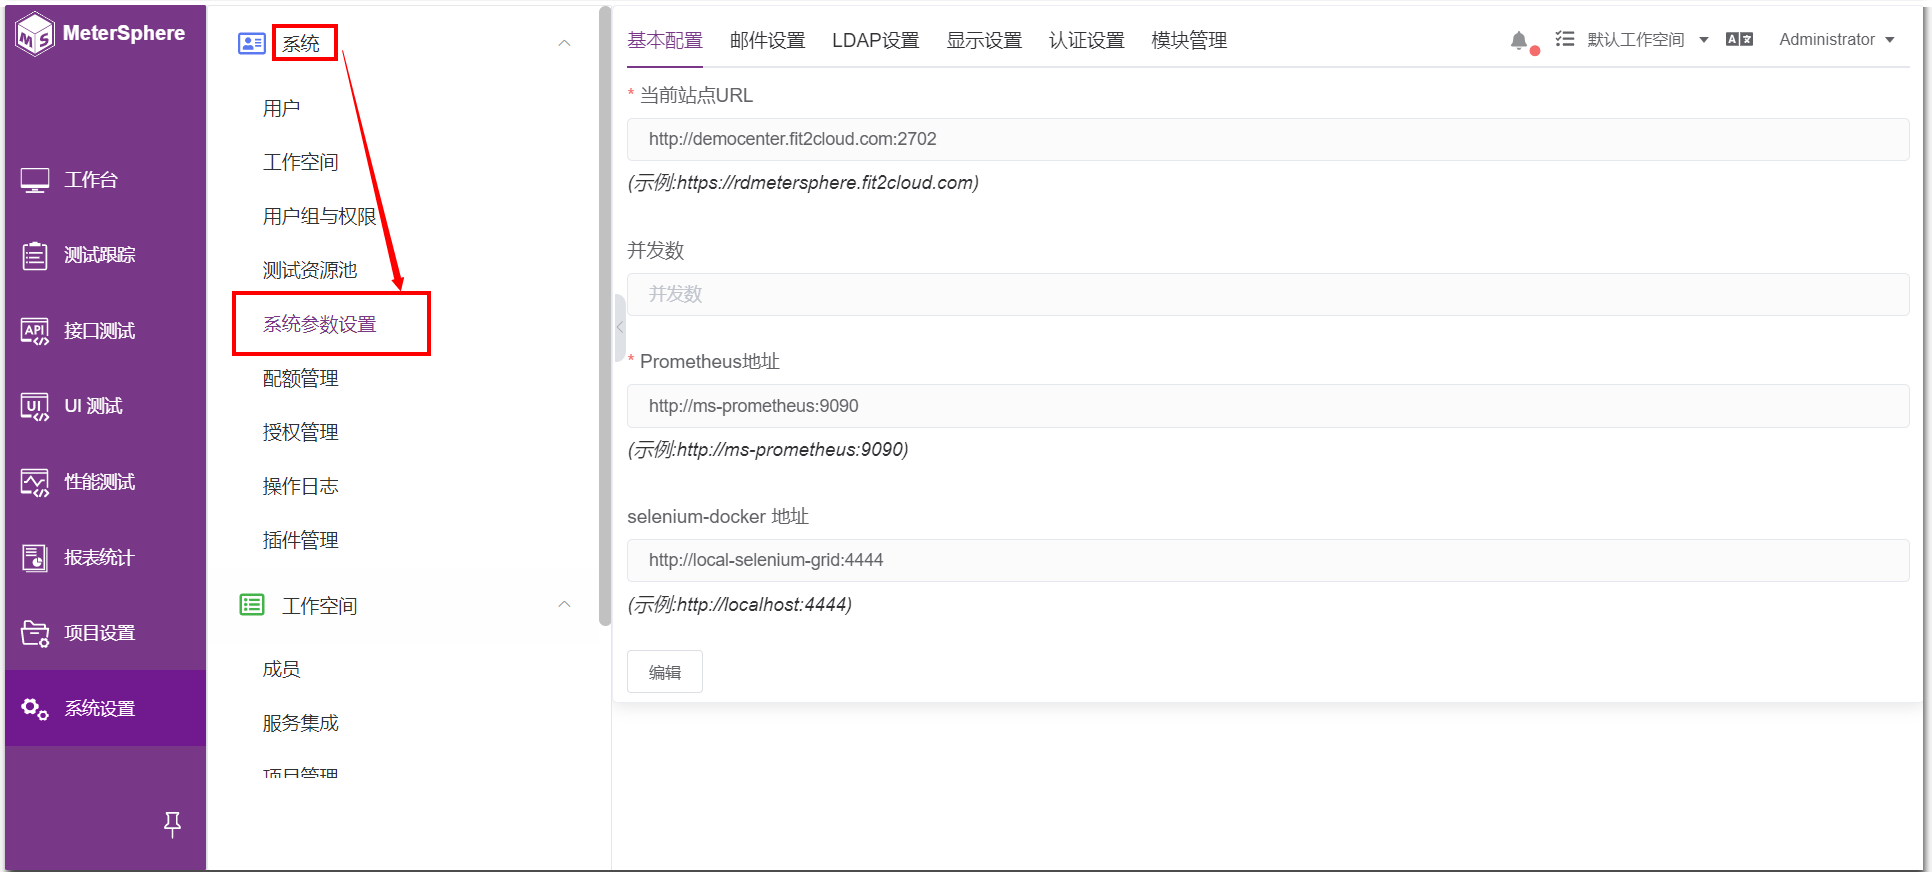
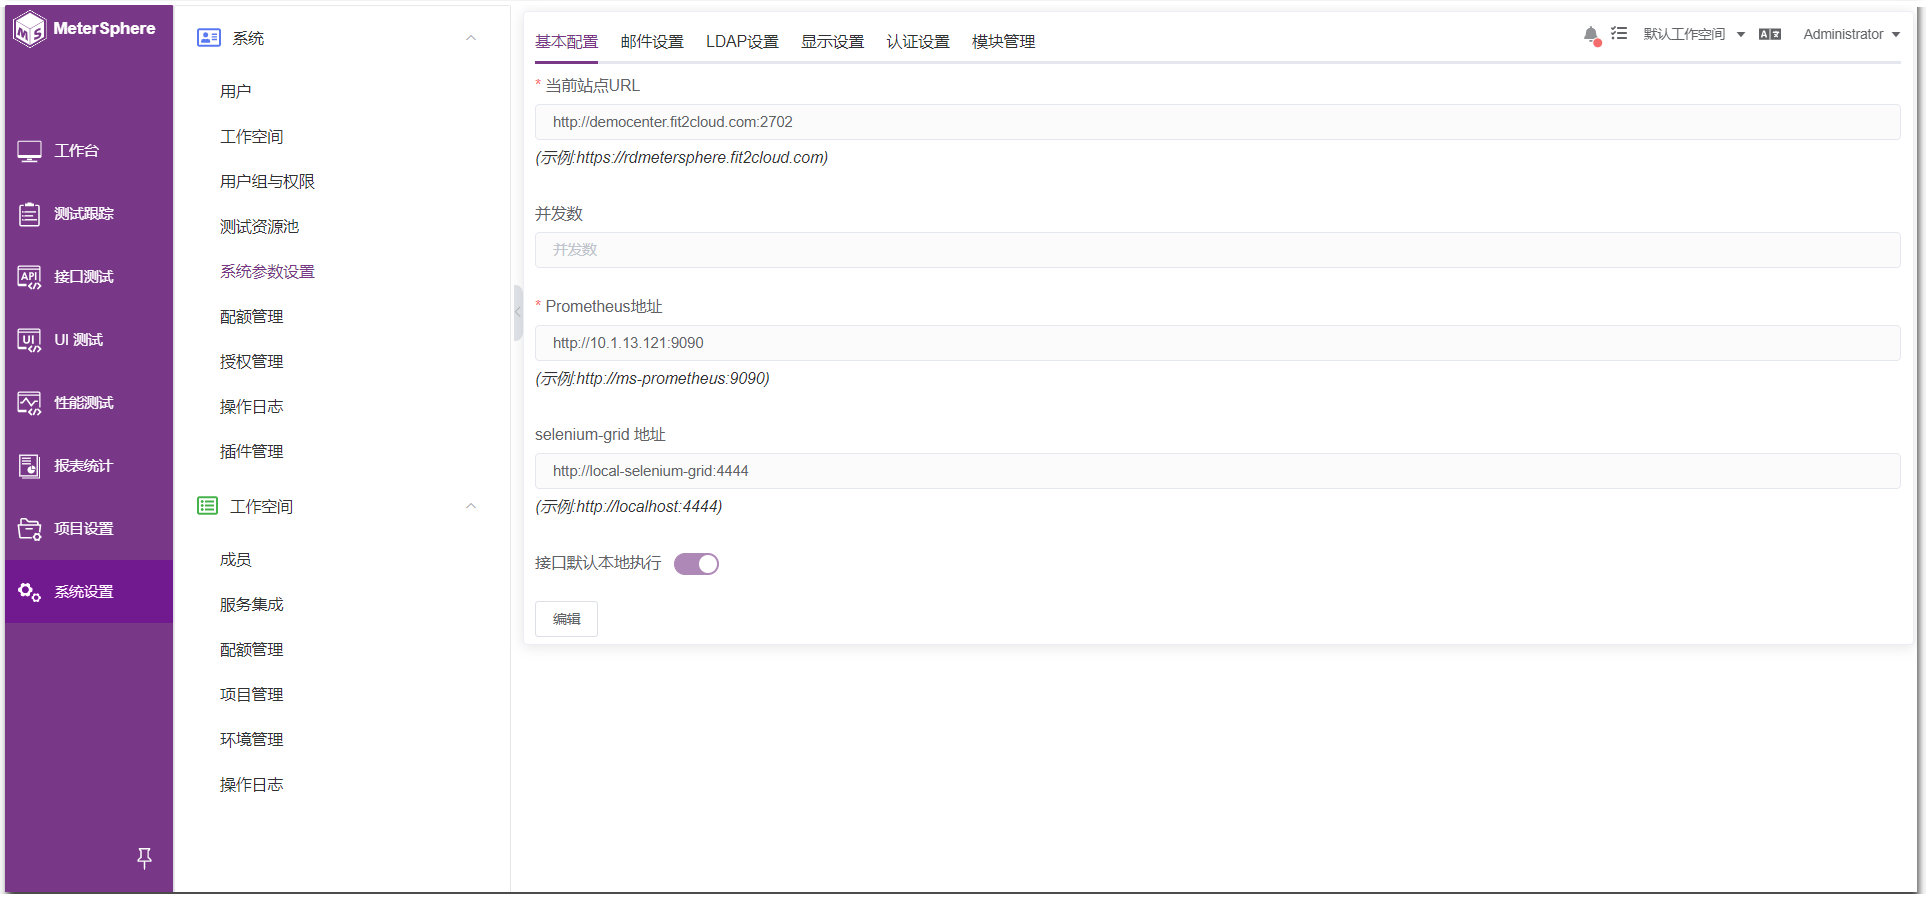
docs: 更新 v2.4 功能

Changed region(s): [[0.0, 0.0, 0.9969, 1.0], [0.2492, 0.0, 0.9969, 0.7065], [0.3427, 0.7372, 0.3738, 0.7679]]

diff --git a/docs/user_manual/system_management/system.md b/docs/user_manual/system_management/system.md
@@ -114,9 +114,9 @@
 点击左侧【系统】下拉菜单中的【系统参数设置】进入参数设置界面，用于平台【基本配置】、【邮件设置】、【LDAP设置】、【显示设置】、【认证设置】、【模块管理】等参数的设置。
 ![系统参数设置首页](../../img/system_management/系统参数设置首页.png)
 
-### 5.1 修改当前站点 URL
+### 5.1 基本配置
 性能测试执行过程中 node-controller 节点需要通过配置的【当前站点URL】下载 JMX 等测试资源文件。在执行性能测试前需要配置并检查测试资源池中的节点可以正常访问到该 URL，URL 值一般为通过浏览器访问 MeterSphere 的地址。
-![!当前站点URL](../../img/system_management/当前站点URL.png)
+![!当前站点URL](../../img/system_management/系统参数设置首页.png)
 
 !!! info "选项"
 
@@ -124,6 +124,7 @@
      - 【并发数】：限制场景接口自动化中场景并行执行时的并发数量。
      - 【Prometheus 地址】：Prometheus 监控服务地址。
      - 【selenium-docker 地址】：selenium 服务地址。
+     - 【接口默认本地执行】：禁用后所有执行功能只能通过测试资源池执行，为了不影响接口正常执行，选择【禁用】后，请在【 项目设置-应用管理-接口测试 】中配置接口执行的资源池。
 
 ### 5.2 邮件设置
 切换至【邮件设置】标签，点击【编辑】按钮可以对 SMTP 信息进行修改、保存。

diff --git a/docs/user_manual/test_track/test_plan.md b/docs/user_manual/test_track/test_plan.md
@@ -14,7 +14,7 @@
 在测试计划列表信息页，鼠标点击某个计划，进入计划详情页面。
 ![!计划列表维护](../../img/track/计划列表维护1.png) 
 
-点击【执行】按钮，选择和勾选运行测试计划的相关配置后，点击【执行】即可<br>
+点击【执行】按钮，选择和勾选运行测试计划的相关配置后，点击【执行】即可。默认环境为用例首次关联进测试计划所选择的用例，选择新环境后可选择执行和保存，保存后新选择的环境为默认环境，点击执行不会修改默认环境，默认环境多用于定时任务、API调用及流水线触发执行。<br>
 ![!计划列表维护](../../img/track/测试计划区分环境.png)
 
 可以管理和维护本次计划测试的范围：功能测试用例、接口测试用例、场景测试用例、性能测试用例等。
